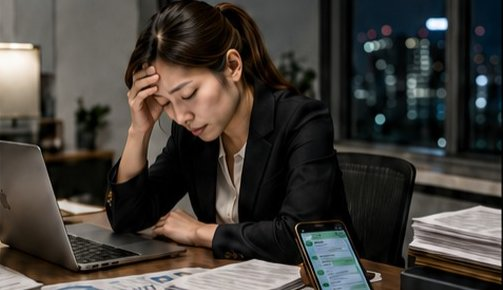
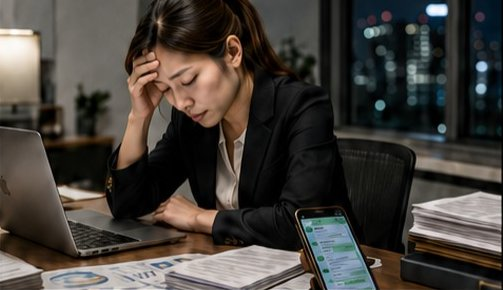
網站：r9 照片裁切位置調整（打包編號 82bc174f1e）
Claude-Session: https://claude.ai/code/session_01JqicpSVCt2FzsjQ5qsAVaY

diff --git a/sw.js b/sw.js
@@ -1,5 +1,5 @@
 /* 離線快取。BUILD 由 build.py 每次打包時換成新的編號，換了編號就會更新快取。 */
-const BUILD = 'ab8d27b4bb';
+const BUILD = '82bc174f1e';
 const CACHE = 'casecard-' + BUILD;
 const PRECACHE = ["./", "app.css", "cases/index.json", "cases/shilin_110_laosu_72.json", "design/standard.css", "fonts/BarlowCondensed-Bold.woff2", "fonts/BarlowCondensed-ExtraBold.woff2", "fonts/FONTS_LICENSE.md", "fonts/OFL.txt", "fonts/fonts.json", "fonts/sans400a.woff2", "fonts/sans400b.woff2", "fonts/sans500a.woff2", "fonts/sans500b.woff2", "fonts/sans700a.woff2", "fonts/sans700b.woff2", "fonts/sans800a.woff2", "fonts/sans800b.woff2", "fonts/sans900a.woff2", "fonts/sans900b.woff2", "fonts/serif500a.woff2", "fonts/serif500b.woff2", "fonts/serif700a.woff2", "fonts/serif700b.woff2", "fonts/serif900a.woff2", "fonts/serif900b.woff2", "hero_library/overwork_night_desk.svg", "hero_library/overwork_night_desk_photo.card.jpg", "hero_library/overwork_night_desk_photo.provenance.json", "icons/apple-touch-icon.png", "icons/icon-192.png", "icons/icon-512-maskable.png", "icons/icon-512.png", "index.html", "js/app.js", "js/engine.js", "js/render.js", "manifest.webmanifest", "skins/skin_original.json", "skins/skin_style1.json", "skins/skin_style1_print.json", "skins/skin_style2.json", "skins/skin_style3.json", "skins/skin_style4.json", "skins/skin_style5.json", "skins/skin_style6.json", "skins/skin_style7.json"];
 // 這些每次都先問網路（有網路就拿最新，沒網路才用快取），新案例才看得到

diff --git a/js/app.js b/js/app.js
@@ -2,7 +2,7 @@
 (function () {
 'use strict';
 const APP_VERSION = '0.3.0';
-const BUILD = 'ab8d27b4bb';
+const BUILD = '82bc174f1e';
 // 壞檔在清單上的標示（驗收第 10 條的用字）；要換字只改這裡
 const BROKEN_LABEL = '這個案例讀不出來';
 const DISCLAIMER = '案例內容由 AI 整理，正式使用前請自己對照判決核對。';
